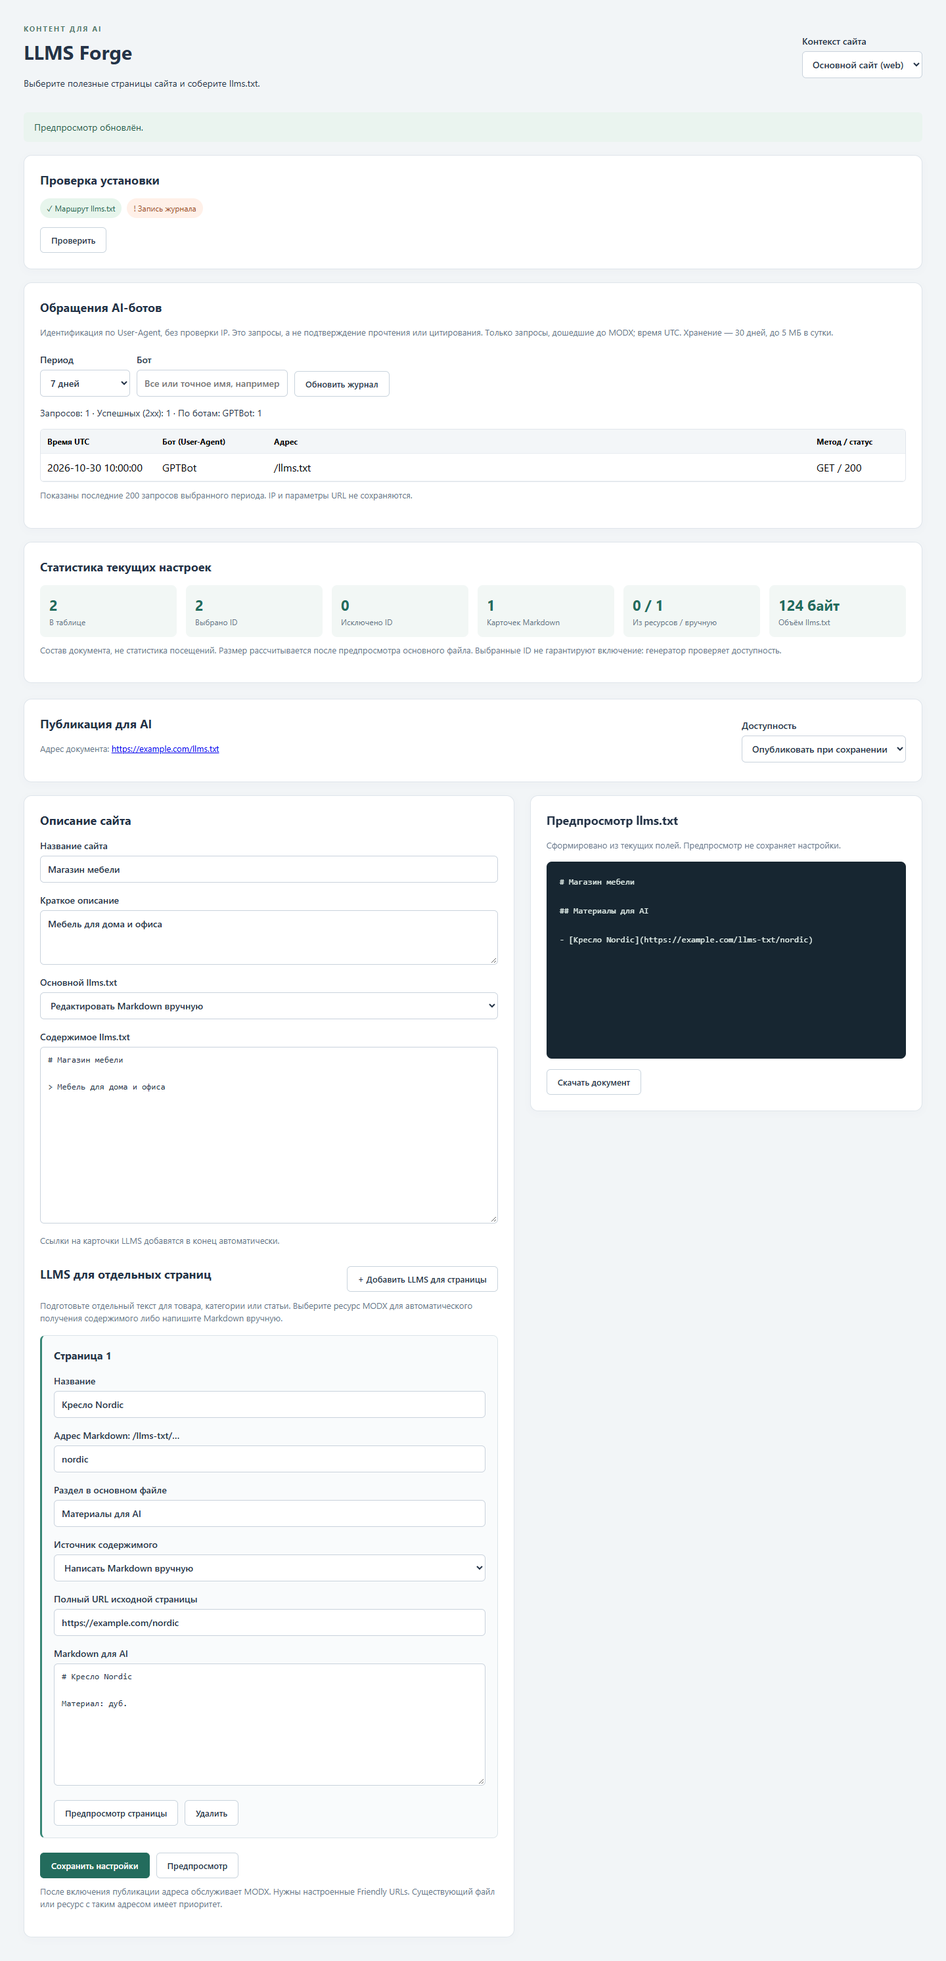
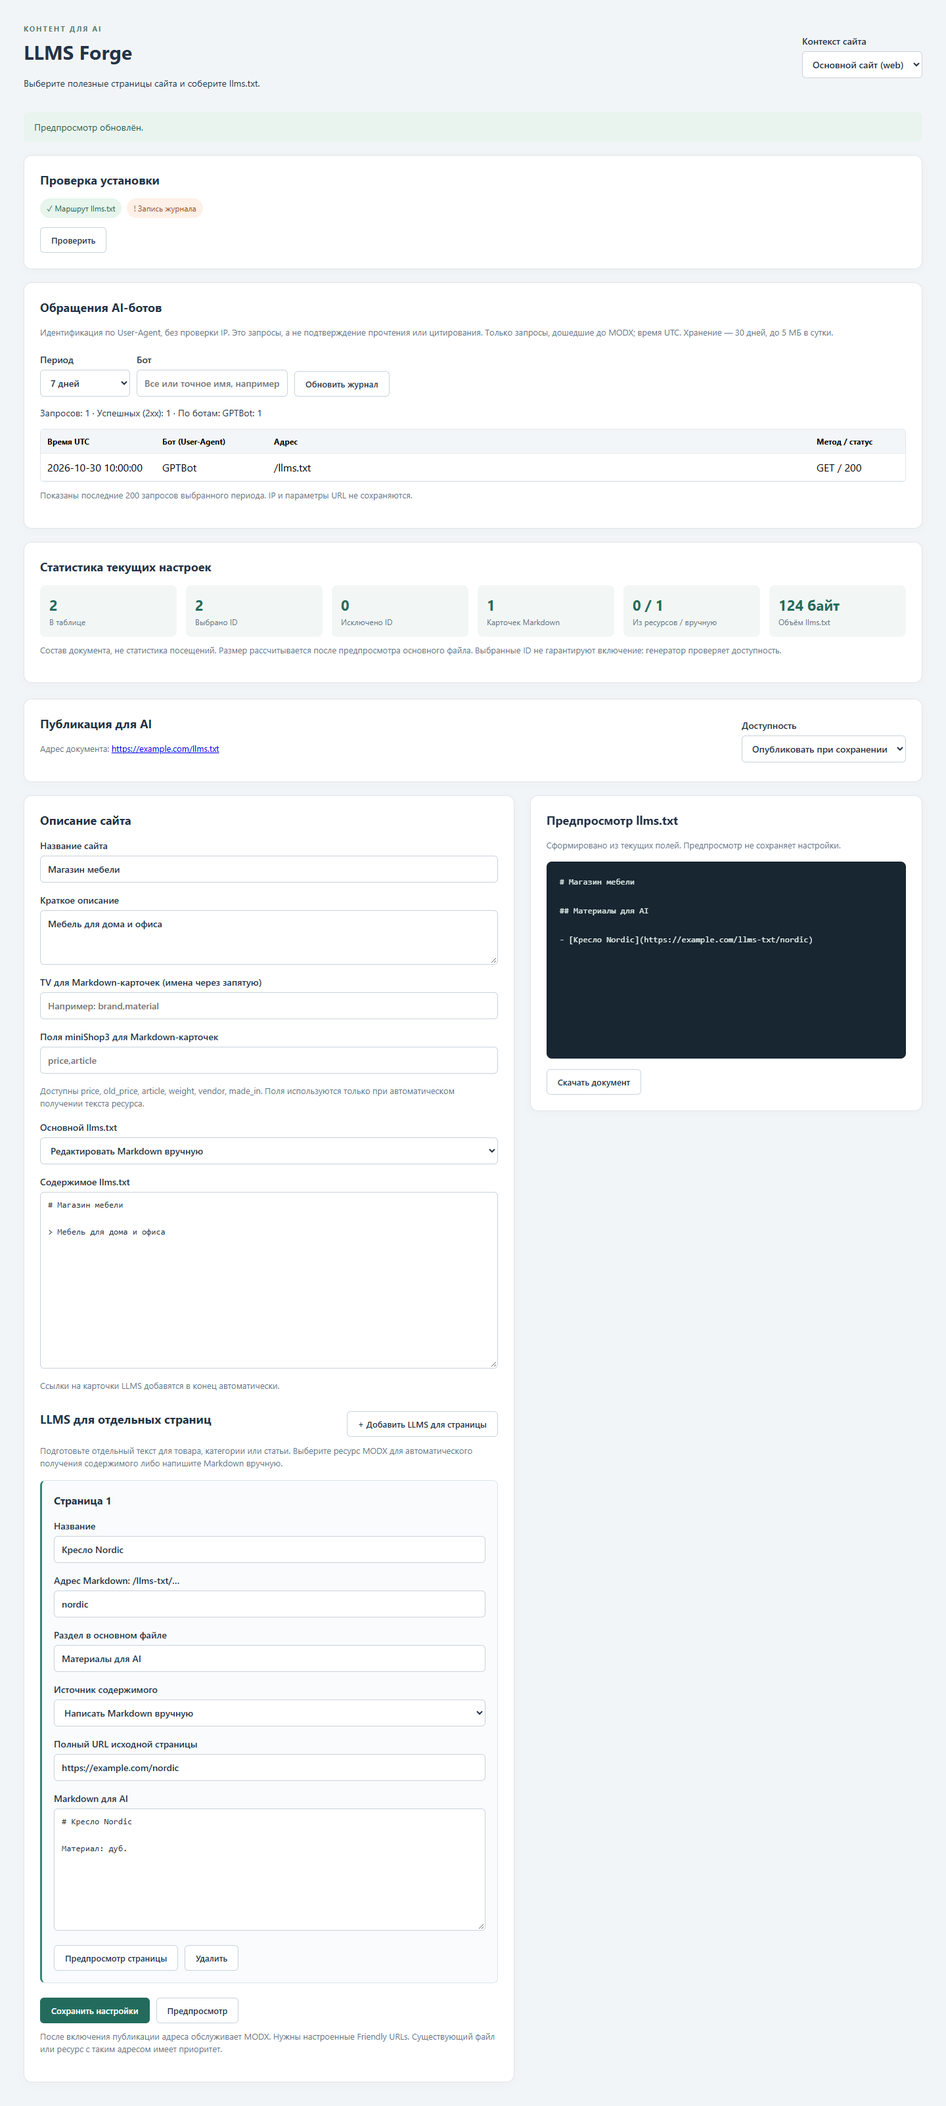
Expand LLMS Forge export and installation diagnostics

diff --git a/assets/components/llmsforge/mgr.js b/assets/components/llmsforge/mgr.js
@@ -12,6 +12,8 @@
         <div class="lf-layout"><section class="lf-card"><h2>Описание сайта</h2>
         <label>Название сайта<input id="lf-title" maxlength="500" required></label>
         <label>Краткое описание<textarea id="lf-description" rows="3"></textarea></label>
+        <label>TV для Markdown-карточек (имена через запятую)<input id="lf-tv_names" placeholder="Например: brand,material"></label>
+        <label>Поля miniShop3 для Markdown-карточек<input id="lf-ms3_fields" placeholder="price,article"></label><p class="lf-muted">Доступны price, old_price, article, weight, vendor, made_in. Поля используются только при автоматическом получении текста ресурса.</p>
         <label>Основной llms.txt<select id="lf-main_mode"><option value="auto">Собрать из выбранных страниц</option><option value="manual">Редактировать Markdown вручную</option></select></label>
         <div id="lf-manual-area" hidden><label>Содержимое llms.txt<textarea id="lf-main_markdown" rows="12" placeholder="# Название сайта"></textarea></label><p class="lf-muted">Ссылки на карточки LLMS добавятся в конец автоматически.</p></div>
         <div id="lf-auto-area">
@@ -32,7 +34,7 @@
         </section><aside class="lf-card lf-preview"><h2>Предпросмотр llms.txt</h2><p id="lf-preview-note" class="lf-muted">Нажмите «Предпросмотр», чтобы проверить документ.</p><pre id="lf-output" tabindex="0"></pre><button id="lf-download" type="button" disabled>Скачать llms.txt</button></aside></div>`;
         const el = id => root.querySelector('#lf-' + id);
         let resources = [], sections = {}, documents = [], dirty = false, busy = false, current = '', preview = '', downloadName = 'llms.txt';
-        const fields = ['title', 'description', 'include_ids', 'exclude_ids', 'main_mode', 'main_markdown', 'enabled'];
+        const fields = ['title', 'description', 'include_ids', 'exclude_ids', 'main_mode', 'main_markdown', 'enabled', 'tv_names', 'ms3_fields'];
         function status(text, error = false) { el('status').textContent = text; el('status').className = error ? 'lf-error' : 'lf-notice'; }
         function changed() { dirty = true; preview = ''; mainBytes = null; stats(); el('download').disabled = true; el('preview-note').textContent = 'Настройки изменены. Обновите предпросмотр.'; status('Есть несохранённые изменения.'); }
         let mainBytes = null;

diff --git a/core/components/llmsforge/src/Documents.php b/core/components/llmsforge/src/Documents.php
@@ -3,6 +3,7 @@ declare(strict_types=1);
 namespace LLMSForge;
 use MODX\Revolution\{modX, modResource, modResourceGroupResource};
 require_once __DIR__ . '/Renderer.php';
+require_once __DIR__ . '/HtmlToMarkdown.php';
 
 final class Documents
 {
@@ -48,6 +49,10 @@ final class Documents
             if ((int) $parent->get('pub_date') > $now || ((int) $parent->get('unpub_date') > 0 && (int) $parent->get('unpub_date') <= $now)) { return null; }
             $parentId = (int) $parent->get('parent');
         }
+        // Integrators can reject resources with custom visibility rules.
+        foreach ((array) $this->modx->invokeEvent('OnLLMSForgeResourceCheck', ['resource' => $resource, 'context' => $context]) as $decision) {
+            if ($decision === false || $decision === 'exclude') { return null; }
+        }
         return $resource;
     }
 
@@ -57,12 +62,26 @@ final class Documents
         $resource = $this->resource($item['resource_id'], $context);
         if (!$resource) { return null; }
         $renderer = new Renderer();
-        $content = (string) $resource->get('content');
-        $content = preg_replace('~<(script|style)\b[^>]*>.*?</\1>~is', '', $content) ?? '';
-        $content = preg_replace('~</(?:p|div|h[1-6]|li)>|<br\s*/?>~i', "\n\n", $content) ?? '';
-        $paragraphs = array_filter(array_map([$renderer, 'text'], preg_split('/\n\s*\n/', $content) ?: []));
+        $body = (new HtmlToMarkdown())->convert((string) $resource->get('content'));
         $url = $this->modx->makeUrl($item['resource_id'], $context, '', 'full');
-        return '# ' . $renderer->text((string) $resource->get('pagetitle')) . "\n\n" . $renderer->text((string) $resource->get('description')) . "\n\n" . implode("\n\n", $paragraphs) . "\n\nИсточник: " . $url . "\n";
+        $extra = [];
+        $siteContext = $this->modx->getContext($context);
+        foreach (array_filter(array_map('trim', explode(',', (string) $siteContext->getOption('llmsforge.tv_names', '')))) as $name) {
+            if (!preg_match('/^[a-zA-Z0-9_]+$/D', $name)) { continue; }
+            $value = $resource->getTVValue($name);
+            if (is_scalar($value) && trim((string) $value) !== '') { $extra[] = '- ' . $name . ': ' . $renderer->text((string) $value); }
+        }
+        if (class_exists(\MiniShop3\Model\msProductData::class)) {
+            $data = $this->modx->getObject(\MiniShop3\Model\msProductData::class, $item['resource_id']);
+            if ($data) {
+                foreach (array_filter(array_map('trim', explode(',', (string) $siteContext->getOption('llmsforge.ms3_fields', 'price,article')))) as $field) {
+                    if (!in_array($field, ['price', 'old_price', 'article', 'weight', 'vendor', 'made_in'], true)) { continue; }
+                    $value = $data->get($field);
+                    if (is_scalar($value) && trim((string) $value) !== '') { $extra[] = '- ' . $field . ': ' . $renderer->text((string) $value); }
+                }
+            }
+        }
+        return '# ' . $renderer->text((string) $resource->get('pagetitle')) . "\n\n" . $renderer->text((string) $resource->get('description')) . "\n\n" . $body . ($extra ? "\n\n## Свойства\n\n" . implode("\n", $extra) : '') . "\n\nИсточник: " . $url . "\n";
     }
 
     public function links(array $items, string $context, string $baseUrl): array

diff --git a/core/components/llmsforge/src/HtmlToMarkdown.php b/core/components/llmsforge/src/HtmlToMarkdown.php
@@ -1,0 +1,47 @@
+<?php
+declare(strict_types=1);
+namespace LLMSForge;
+
+final class HtmlToMarkdown
+{
+    public function convert(string $html): string
+    {
+        $html = preg_replace('/\[\[.*?\]\]/s', '', $html) ?? '';
+        if (!class_exists(\DOMDocument::class)) { return trim(html_entity_decode(strip_tags($html), ENT_QUOTES | ENT_HTML5, 'UTF-8')); }
+        $document = new \DOMDocument();
+        $previous = libxml_use_internal_errors(true);
+        try { $document->loadHTML('<?xml encoding="utf-8"?><body>' . $html . '</body>', LIBXML_NONET | LIBXML_NOERROR | LIBXML_NOWARNING); }
+        finally { libxml_clear_errors(); libxml_use_internal_errors($previous); }
+        $body = $document->getElementsByTagName('body')->item(0);
+        $text = $body ? $this->children($body) : '';
+        $text = preg_replace("/\n{3,}/", "\n\n", $text) ?? $text;
+        return trim($text);
+    }
+
+    private function children(\DOMNode $node): string
+    {
+        $result = '';
+        foreach ($node->childNodes as $child) { $result .= $this->node($child); }
+        return $result;
+    }
+
+    private function node(\DOMNode $node): string
+    {
+        if ($node instanceof \DOMText) { return preg_replace('/\s+/u', ' ', $node->textContent) ?? ''; }
+        if (!$node instanceof \DOMElement) { return ''; }
+        $tag = strtolower($node->tagName);
+        if (in_array($tag, ['script', 'style', 'iframe', 'form', 'noscript', 'svg'], true)) { return ''; }
+        $text = $this->children($node);
+        if (preg_match('/^h([1-6])$/', $tag, $match)) { return "\n\n" . str_repeat('#', (int) $match[1]) . ' ' . trim($text) . "\n\n"; }
+        if ($tag === 'li') { return '- ' . trim($text) . "\n"; }
+        if (in_array($tag, ['p', 'div', 'section', 'article', 'ul', 'ol', 'blockquote'], true)) { return "\n\n" . trim($text) . "\n\n"; }
+        if ($tag === 'br') { return "\n"; }
+        if (in_array($tag, ['strong', 'b'], true)) { return '**' . trim($text) . '**'; }
+        if (in_array($tag, ['em', 'i'], true)) { return '*' . trim($text) . '*'; }
+        if ($tag === 'a') {
+            $url = $node->getAttribute('href');
+            if (preg_match('~^https?://~i', $url)) { return '[' . trim($text) . '](' . str_replace(['(', ')'], ['%28', '%29'], $url) . ')'; }
+        }
+        return $text;
+    }
+}

diff --git a/core/components/llmsforge/src/Manager.php b/core/components/llmsforge/src/Manager.php
@@ -7,14 +7,14 @@ require_once __DIR__ . '/Documents.php';
 
 final class Manager
 {
-    public const DEFAULTS = ['title' => '', 'description' => '', 'include_ids' => '', 'exclude_ids' => '', 'sections' => '{}', 'main_mode' => 'auto', 'main_markdown' => '', 'documents' => '[]', 'enabled' => '0'];
+    public const DEFAULTS = ['title' => '', 'description' => '', 'include_ids' => '', 'exclude_ids' => '', 'sections' => '{}', 'main_mode' => 'auto', 'main_markdown' => '', 'documents' => '[]', 'enabled' => '0', 'tv_names' => '', 'ms3_fields' => 'price,article'];
     public function __construct(private modX $modx) {}
 
     public static function validate(array $input): array
     {
         $values = [];
         foreach (self::DEFAULTS as $key => $default) {
-            if (!array_key_exists($key, $input) && in_array($key, ['main_mode', 'main_markdown', 'documents', 'enabled'], true)) { $input[$key] = $default; }
+            if (!array_key_exists($key, $input) && in_array($key, ['main_mode', 'main_markdown', 'documents', 'enabled', 'tv_names', 'ms3_fields'], true)) { $input[$key] = $default; }
             if (!is_string($input[$key] ?? null)) { throw new \InvalidArgumentException('Некорректное поле: ' . $key); }
             $values[$key] = trim($input[$key]);
         }
@@ -35,6 +35,9 @@ final class Manager
         if (!in_array($values['main_mode'], ['auto', 'manual'], true) || !in_array($values['enabled'], ['0', '1'], true)) { throw new \InvalidArgumentException('Некорректный режим генерации.'); }
         if (strlen($values['main_markdown']) > 60000 || ($values['main_mode'] === 'manual' && !preg_match('/^#\s+\S/m', $values['main_markdown']))) { throw new \InvalidArgumentException('Основной Markdown должен содержать заголовок # и быть не больше 60 КБ.'); }
         Documents::validate($values['documents']);
+        foreach (['tv_names', 'ms3_fields'] as $key) {
+            if (strlen($values[$key]) > 2000 || ($values[$key] !== '' && !preg_match('/^[a-zA-Z0-9_]+(?:\s*,\s*[a-zA-Z0-9_]+)*$/D', $values[$key]))) { throw new \InvalidArgumentException('Поля экспорта: укажите имена через запятую.'); }
+        }
         return $values;
     }
 

diff --git a/assets/components/llmsforge/setup.php b/assets/components/llmsforge/setup.php
@@ -26,6 +26,7 @@ if ($_SERVER['REQUEST_METHOD'] === 'POST') {
     }
     try {
         if ((int) ($modx->getVersionData()['version'] ?? 0) !== 3) { throw new RuntimeException('Требуется MODX 3.'); }
+        if (PHP_VERSION_ID < 80100 || !extension_loaded('dom') || !extension_loaded('json')) { throw new RuntimeException('Требуется PHP 8.1+, расширения DOM и JSON.'); }
         $component = MODX_CORE_PATH . 'components/llmsforge/';
         foreach (['src/Generator.php', 'src/Renderer.php', 'src/Manager.php', 'src/Documents.php', 'controllers/index.class.php', 'elements/snippets/llmsforge.php', 'elements/plugins/router.php'] as $file) {
             if (!is_readable($component . $file)) { throw new RuntimeException('Не загружен файл core/components/llmsforge/' . $file); }
@@ -54,6 +55,8 @@ if ($_SERVER['REQUEST_METHOD'] === 'POST') {
             $eventKey = ['pluginid' => $plugin->get('id'), 'event' => 'OnPageNotFound'];
             $event = $modx->getObject(\MODX\Revolution\modPluginEvent::class, $eventKey) ?? $modx->newObject(\MODX\Revolution\modPluginEvent::class);
             $save($event, $eventKey + ['priority' => 0]);
+            $checkEvent = $modx->getObject(\MODX\Revolution\modEvent::class, ['name' => 'OnLLMSForgeResourceCheck']) ?? $modx->newObject(\MODX\Revolution\modEvent::class);
+            $save($checkEvent, ['name' => 'OnLLMSForgeResourceCheck', 'service' => 1, 'groupname' => 'LLMS Forge']);
             $trackingSource = file_get_contents($component . 'elements/plugins/visits.php');
             if ($trackingSource === false || !is_file($component . 'src/Visits.php')) { throw new RuntimeException('Загрузите файлы статистики Visits.php и visits.php.'); }
             $tracking = $modx->getObject(\MODX\Revolution\modPlugin::class, ['name' => 'LLMSForgeVisits']) ?? $modx->newObject(\MODX\Revolution\modPlugin::class);

diff --git a/_build/build.transport.php b/_build/build.transport.php
@@ -16,8 +16,11 @@ $modx = new modX();
 $modx->initialize('mgr');
 if ((int) ($modx->getVersionData()['version'] ?? 0) !== 3) { throw new RuntimeException('MODX 3 required'); }
 $builder = new modPackageBuilder($modx);
-$builder->createPackage('llmsforge', '0.5.0', 'alpha');
+$builder->createPackage('llmsforge', '0.6.0', 'alpha');
 $builder->registerNamespace('llmsforge', false, true, '{core_path}components/llmsforge/');
+$checkEvent = $modx->newObject(\MODX\Revolution\modEvent::class);
+$checkEvent->fromArray(['name' => 'OnLLMSForgeResourceCheck', 'service' => 1, 'groupname' => 'LLMS Forge'], '', true);
+$builder->putVehicle($builder->createVehicle($checkEvent, [xPDOTransport::UNIQUE_KEY => 'name', xPDOTransport::PRESERVE_KEYS => false, xPDOTransport::UPDATE_OBJECT => true]));
 $source = dirname(__DIR__) . '/core/components/llmsforge';
 $snippet = $modx->newObject(modSnippet::class);
 $snippet->fromArray([
@@ -53,7 +56,7 @@ foreach (\LLMSForge\Manager::DEFAULTS as $name => $value) {
 $builder->setPackageAttributes([
     'license' => file_get_contents(dirname(__DIR__) . '/COPYING'),
     'readme' => file_get_contents(dirname(__DIR__) . '/README.md'),
-    'changelog' => "0.5.0-alpha\n- Installation diagnostics for routing, publication and visit logs.\n- Curated llms.txt and Markdown cards for MODX 3.\n- AI bot request reporting and context-specific settings.",
+    'changelog' => "0.6.0-alpha\n- Public URL conflict and PHP requirements checks.\n- Optional TV and miniShop3 data fields in Markdown cards.\n- HTML to Markdown conversion and custom resource access event.",
 ]);
 if (!$builder->pack()) { throw new RuntimeException('Package build failed'); }
-echo "Built llmsforge-0.5.0-alpha in MODX core/packages\n";
+echo "Built llmsforge-0.6.0-alpha in MODX core/packages\n";

diff --git a/assets/components/llmsforge/mgr.php b/assets/components/llmsforge/mgr.php
@@ -34,12 +34,18 @@ try {
         $visitDir = MODX_CORE_PATH . 'components/llmsforge/var/visits';
         $writablePath = $visitDir;
         while (!file_exists($writablePath) && dirname($writablePath) !== $writablePath) { $writablePath = dirname($writablePath); }
+        $basePath = rtrim((string) $siteContext->getOption('base_path', MODX_BASE_PATH), '/\\') . '/';
+        $fileConflict = is_file($basePath . 'llms.txt');
+        $resourceConflict = $modx->getObject(\MODX\Revolution\modResource::class, ['context_key' => $key, 'uri' => 'llms.txt', 'deleted' => 0]) !== null;
         $checks = [
             'Маршрут llms.txt' => $plugin && !(bool) $plugin->get('disabled'),
             'Журнал посещений' => $tracker && !(bool) $tracker->get('disabled'),
             'Публикация в контексте' => (string) $siteContext->getOption('llmsforge.enabled', '0') === '1',
             'Адрес сайта' => filter_var($siteContext->getOption('site_url'), FILTER_VALIDATE_URL) !== false,
             'Запись журнала' => is_dir($writablePath) && is_writable($writablePath),
+            'Адрес llms.txt свободен' => !$fileConflict && !$resourceConflict,
+            'Расширение DOM' => extension_loaded('dom'),
+            'PHP 8.1+' => PHP_VERSION_ID >= 80100,
         ];
         $reply(true, ['checks' => $checks, 'url' => rtrim((string) $siteContext->getOption('site_url'), '/') . '/llms.txt']);
     }

diff --git a/tests/documents.php b/tests/documents.php
@@ -1,7 +1,7 @@
 <?php
 declare(strict_types=1);
 namespace MODX\Revolution {
-    class modResource { public function __construct(public array $data) {} public function get($key) { return $this->data[$key] ?? 0; } public function checkPolicy($policy) { return $this->data['view'] ?? true; } }
+    class modResource { public function __construct(public array $data) {} public function get($key) { return $this->data[$key] ?? 0; } public function checkPolicy($policy) { return $this->data['view'] ?? true; } public function getTVValue($name) { return $this->data['tv'][$name] ?? ''; } }
     class modResourceGroupResource {}
     class modX {
         public array $rows = [];
@@ -9,6 +9,8 @@ namespace MODX\Revolution {
         public function getObject($class, $criteria) { $row = $this->rows[$criteria['id']] ?? null; if (!$row) return null; foreach ($criteria as $key => $value) { if ($row->get($key) != $value) return null; } return $row; }
         public function getCount($class, $criteria) { return in_array($criteria['document'], $this->groups, true) ? 1 : 0; }
         public function makeUrl($id, ...$args) { return 'https://example.com/page/' . $id; }
+        public function getContext($key) { return new class { public function getOption($key, $default = '') { return $default; } }; }
+        public function invokeEvent($event, $params) { return []; }
     }
 }
 namespace {

diff --git a/core/components/llmsforge/controllers/index.class.php b/core/components/llmsforge/controllers/index.class.php
@@ -4,14 +4,15 @@ declare(strict_types=1);
 class LLMSForgeIndexManagerController extends \MODX\Revolution\modExtraManagerController
 {
     public function getPageTitle(): string { return 'LLMS Forge'; }
+    public function getLanguageTopics(): array { return ['core:default', 'llmsforge:default']; }
     public function checkPermissions(): bool { return $this->modx->hasPermission('settings'); }
     public function loadCustomCssJs(): void
     {
         $_SESSION['llmsforge_csrf'] ??= bin2hex(random_bytes(32));
         $base = $this->modx->getOption('assets_url') . 'components/llmsforge/';
         $config = ['url' => $base . 'mgr.php', 'csrf' => $_SESSION['llmsforge_csrf']];
-        $this->addCss($base . 'mgr.css?v=0.5.0');
+        $this->addCss($base . 'mgr.css?v=0.6.0');
         $this->addHtml('<script>window.LLMSForgeConfig=' . json_encode($config, JSON_HEX_TAG | JSON_HEX_AMP | JSON_HEX_APOS | JSON_HEX_QUOT) . ';</script>');
-        $this->addJavascript($base . 'mgr.js?v=0.5.0');
+        $this->addJavascript($base . 'mgr.js?v=0.6.0');
     }
 }

diff --git a/tests/html.php b/tests/html.php
@@ -1,0 +1,10 @@
+<?php
+declare(strict_types=1);
+require dirname(__DIR__) . '/core/components/llmsforge/src/HtmlToMarkdown.php';
+$html = '<h2>Features</h2><p>Useful <strong>text</strong> and <a href="https://example.com/a(b)">link</a>.</p><ul><li>First</li><li>Second</li></ul><script>secret()</script>[[!Private]]';
+$text = (new \LLMSForge\HtmlToMarkdown())->convert($html);
+foreach (['## Features', '**text**', '[link](https://example.com/a%28b%29)', '- First', '- Second'] as $expected) {
+    if (!str_contains($text, $expected)) { throw new RuntimeException('Missing Markdown: ' . $expected . "\n" . $text); }
+}
+if (str_contains($text, 'secret') || str_contains($text, 'Private')) { throw new RuntimeException('Executable content leaked'); }
+echo "HTML to Markdown checks passed\n";

diff --git a/core/components/llmsforge/lexicon/ru/default.inc.php b/core/components/llmsforge/lexicon/ru/default.inc.php
@@ -1,0 +1,9 @@
+<?php
+$_lang['llmsforge'] = 'LLMS Forge';
+$_lang['llmsforge.desc'] = 'Генератор llms.txt и Markdown-карточек для AI-агентов';
+$_lang['llmsforge.title'] = 'Название сайта';
+$_lang['llmsforge.description'] = 'Краткое описание';
+$_lang['llmsforge.include_ids'] = 'Выбранные ресурсы';
+$_lang['llmsforge.exclude_ids'] = 'Исключённые ресурсы';
+$_lang['llmsforge.tv_names'] = 'Имена TV для экспорта';
+$_lang['llmsforge.ms3_fields'] = 'Поля miniShop3 для экспорта';

diff --git a/core/components/llmsforge/lexicon/en/default.inc.php b/core/components/llmsforge/lexicon/en/default.inc.php
@@ -1,0 +1,9 @@
+<?php
+$_lang['llmsforge'] = 'LLMS Forge';
+$_lang['llmsforge.desc'] = 'llms.txt and Markdown page generator for AI agents';
+$_lang['llmsforge.title'] = 'Site title';
+$_lang['llmsforge.description'] = 'Short description';
+$_lang['llmsforge.include_ids'] = 'Selected resources';
+$_lang['llmsforge.exclude_ids'] = 'Excluded resources';
+$_lang['llmsforge.tv_names'] = 'TV names to export';
+$_lang['llmsforge.ms3_fields'] = 'miniShop3 fields to export';
